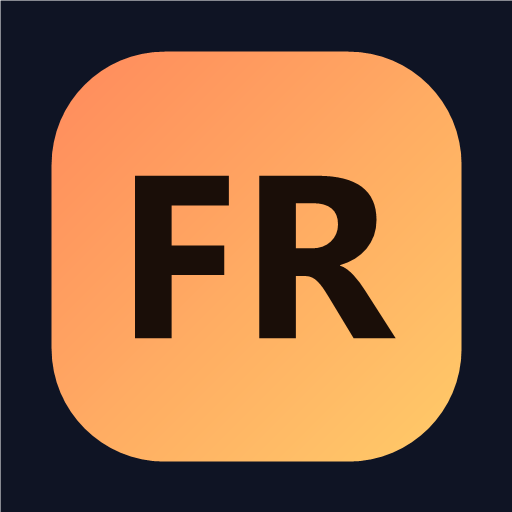
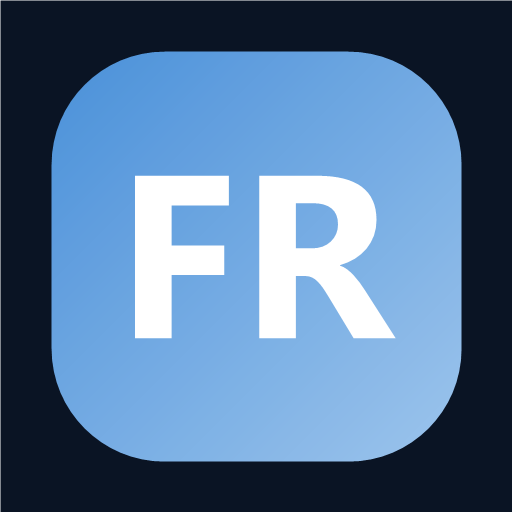
Recolor to Xavier University brand blue
Replaced the coral/amber accent palette with one built around Xavier's
official brand blue (#0C2340, Pantone 289 C, confirmed via their brand
guide) - used directly for card surfaces, with a brighter blue tint for
buttons/badges/highlights so they still pop on the dark background.
Regenerated app icons and updated theme-color/manifest to match.

diff --git a/css/style.css b/css/style.css
@@ -3,16 +3,19 @@
    One file, used by every page, so the whole site stays visually consistent.
    ========================================================================== */
 
+/* Palette built around Xavier University's official brand blue, #0C2340
+   (Pantone 289 C) — used directly for card surfaces; --accent is a brighter
+   tint of the same blue so buttons/highlights still pop on a dark background. */
 :root {
-  --bg: #0f1424;
-  --bg-elev: #171d33;
-  --bg-elev-2: #1f2742;
+  --bg: #0a1424;
+  --bg-elev: #0c2340;
+  --bg-elev-2: #163156;
   --text: #f5f6fa;
-  --text-dim: #9aa3c0;
-  --text-faint: #6b7394;
-  --accent: #ff8a5c;
-  --accent-strong: #ff7043;
-  --accent-2: #ffcb69;
+  --text-dim: #a8b7cc;
+  --text-faint: #728098;
+  --accent: #4a90d9;
+  --accent-strong: #2f6cb0;
+  --accent-2: #9cc4ec;
   --positive: #4ade80;
   --negative: #f87171;
   --border: rgba(255, 255, 255, 0.08);
@@ -26,40 +29,47 @@
 
 @media (prefers-color-scheme: light) {
   :root {
-    --bg: #f5f6fb;
+    --bg: #f4f7fb;
     --bg-elev: #ffffff;
-    --bg-elev-2: #eef0f9;
-    --text: #171b2e;
-    --text-dim: #565f82;
-    --text-faint: #8a93b8;
-    --border: rgba(23, 27, 46, 0.08);
-    --border-strong: rgba(23, 27, 46, 0.14);
-    --shadow: 0 8px 24px rgba(23, 27, 46, 0.08);
+    --bg-elev-2: #e9eff8;
+    --text: #0c2340;
+    --text-dim: #3f5470;
+    --text-faint: #7688a3;
+    --accent: #2f6cb0;
+    --accent-strong: #21528a;
+    --border: rgba(12, 35, 64, 0.1);
+    --border-strong: rgba(12, 35, 64, 0.18);
+    --shadow: 0 8px 24px rgba(12, 35, 64, 0.1);
   }
 }
 
 :root[data-theme="dark"] {
-  --bg: #0f1424;
-  --bg-elev: #171d33;
-  --bg-elev-2: #1f2742;
+  --bg: #0a1424;
+  --bg-elev: #0c2340;
+  --bg-elev-2: #163156;
   --text: #f5f6fa;
-  --text-dim: #9aa3c0;
-  --text-faint: #6b7394;
+  --text-dim: #a8b7cc;
+  --text-faint: #728098;
+  --accent: #4a90d9;
+  --accent-strong: #2f6cb0;
+  --accent-2: #9cc4ec;
   --border: rgba(255, 255, 255, 0.08);
   --border-strong: rgba(255, 255, 255, 0.14);
   --shadow: 0 8px 24px rgba(0, 0, 0, 0.35);
 }
 
 :root[data-theme="light"] {
-  --bg: #f5f6fb;
+  --bg: #f4f7fb;
   --bg-elev: #ffffff;
-  --bg-elev-2: #eef0f9;
-  --text: #171b2e;
-  --text-dim: #565f82;
-  --text-faint: #8a93b8;
-  --border: rgba(23, 27, 46, 0.08);
-  --border-strong: rgba(23, 27, 46, 0.14);
-  --shadow: 0 8px 24px rgba(23, 27, 46, 0.08);
+  --bg-elev-2: #e9eff8;
+  --text: #0c2340;
+  --text-dim: #3f5470;
+  --text-faint: #7688a3;
+  --accent: #2f6cb0;
+  --accent-strong: #21528a;
+  --border: rgba(12, 35, 64, 0.1);
+  --border-strong: rgba(12, 35, 64, 0.18);
+  --shadow: 0 8px 24px rgba(12, 35, 64, 0.1);
 }
 
 * { box-sizing: border-box; }
@@ -125,7 +135,7 @@ a { color: inherit; text-decoration: none; }
   height: 28px;
   border-radius: 8px;
   background: linear-gradient(135deg, var(--accent), var(--accent-2));
-  color: #171200;
+  color: #ffffff;
   font-weight: 900;
   font-size: 13px;
 }
@@ -331,7 +341,7 @@ a { color: inherit; text-decoration: none; }
 
 .btn-primary {
   background: linear-gradient(135deg, var(--accent), var(--accent-strong));
-  color: #1a0e08;
+  color: #ffffff;
 }
 
 .btn-ghost {
@@ -444,7 +454,7 @@ a { color: inherit; text-decoration: none; }
   height: 48px;
   border-radius: 12px;
   background: linear-gradient(135deg, var(--accent), var(--accent-2));
-  color: #171200;
+  color: #ffffff;
   font-weight: 900;
   font-size: 18px;
   margin: 0 auto 16px;

diff --git a/index.html b/index.html
@@ -19,7 +19,7 @@
 <meta name="apple-mobile-web-app-capable" content="yes" />
 <meta name="apple-mobile-web-app-status-bar-style" content="black-translucent" />
 <meta name="apple-mobile-web-app-title" content="Full Regalia" />
-<meta name="theme-color" content="#0f1424" />
+<meta name="theme-color" content="#0a1424" />
 <link rel="stylesheet" href="css/style.css" />
 </head>
 <body>

diff --git a/betting-guide.html b/betting-guide.html
@@ -8,7 +8,7 @@
 <link rel="manifest" href="manifest.json" />
 <link rel="apple-touch-icon" href="icons/apple-touch-icon.png" />
 <meta name="apple-mobile-web-app-capable" content="yes" />
-<meta name="theme-color" content="#0f1424" />
+<meta name="theme-color" content="#0a1424" />
 <link rel="stylesheet" href="css/style.css" />
 </head>
 <body>

diff --git a/history.html b/history.html
@@ -8,7 +8,7 @@
 <link rel="manifest" href="manifest.json" />
 <link rel="apple-touch-icon" href="icons/apple-touch-icon.png" />
 <meta name="apple-mobile-web-app-capable" content="yes" />
-<meta name="theme-color" content="#0f1424" />
+<meta name="theme-color" content="#0a1424" />
 <link rel="stylesheet" href="css/style.css" />
 </head>
 <body>

diff --git a/live.html b/live.html
@@ -8,7 +8,7 @@
 <link rel="manifest" href="manifest.json" />
 <link rel="apple-touch-icon" href="icons/apple-touch-icon.png" />
 <meta name="apple-mobile-web-app-capable" content="yes" />
-<meta name="theme-color" content="#0f1424" />
+<meta name="theme-color" content="#0a1424" />
 <link rel="stylesheet" href="css/style.css" />
 </head>
 <body>

diff --git a/picks.html b/picks.html
@@ -8,7 +8,7 @@
 <link rel="manifest" href="manifest.json" />
 <link rel="apple-touch-icon" href="icons/apple-touch-icon.png" />
 <meta name="apple-mobile-web-app-capable" content="yes" />
-<meta name="theme-color" content="#0f1424" />
+<meta name="theme-color" content="#0a1424" />
 <link rel="stylesheet" href="css/style.css" />
 </head>
 <body>

diff --git a/player.html b/player.html
@@ -8,7 +8,7 @@
 <link rel="manifest" href="manifest.json" />
 <link rel="apple-touch-icon" href="icons/apple-touch-icon.png" />
 <meta name="apple-mobile-web-app-capable" content="yes" />
-<meta name="theme-color" content="#0f1424" />
+<meta name="theme-color" content="#0a1424" />
 <link rel="stylesheet" href="css/style.css" />
 </head>
 <body>

diff --git a/standings.html b/standings.html
@@ -8,7 +8,7 @@
 <link rel="manifest" href="manifest.json" />
 <link rel="apple-touch-icon" href="icons/apple-touch-icon.png" />
 <meta name="apple-mobile-web-app-capable" content="yes" />
-<meta name="theme-color" content="#0f1424" />
+<meta name="theme-color" content="#0a1424" />
 <link rel="stylesheet" href="css/style.css" />
 </head>
 <body>
